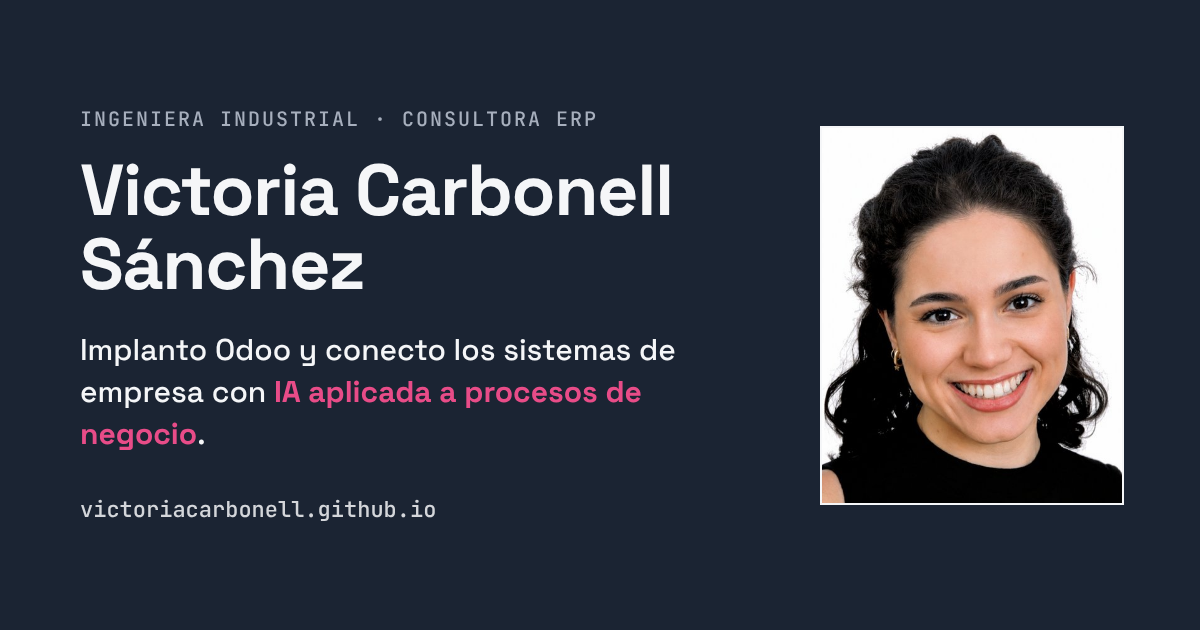
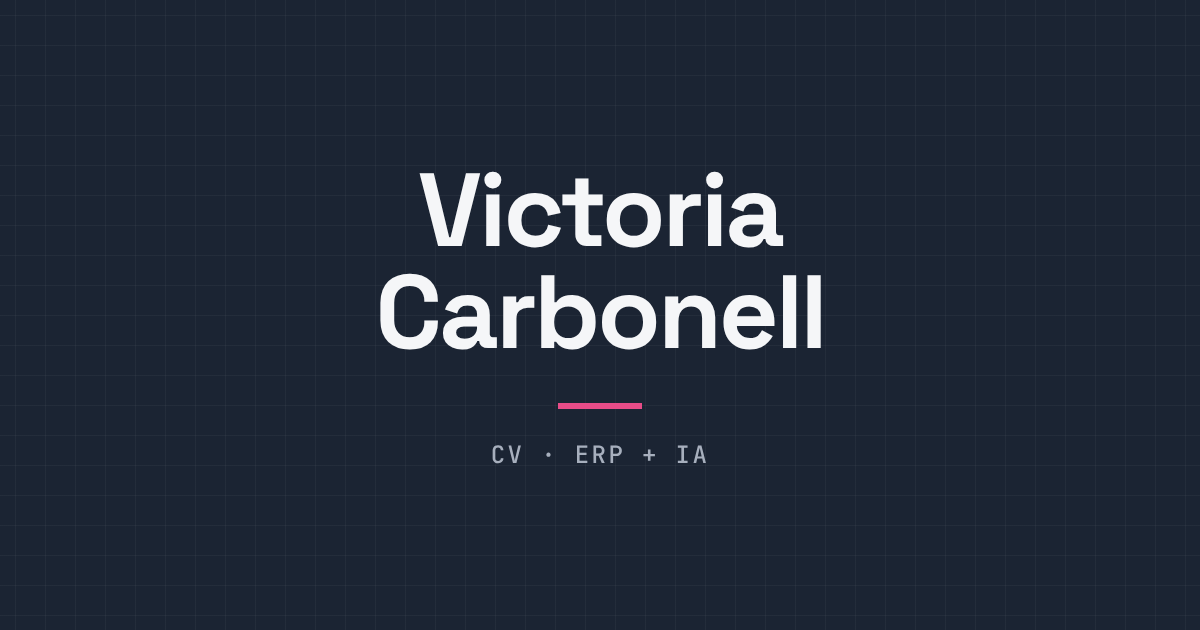
style: replace social preview with typographic image

diff --git a/index.html b/index.html
@@ -14,7 +14,7 @@
 <meta property="og:locale" content="es_ES">
 <meta property="og:url" content="https://victoriacarbonell.github.io/">
 <meta property="og:title" content="Victoria Carbonell Sánchez · CV">
-<meta property="og:description" content="Consultora Odoo · ERP e IA aplicada a procesos de negocio · Ingeniera industrial (UPCT)">
+<meta property="og:description" content="Consultora ERP · IA aplicada a procesos de negocio">
 <meta property="og:image" content="https://victoriacarbonell.github.io/img/og-image.png">
 <meta property="og:image:width" content="1200">
 <meta property="og:image:height" content="630">
